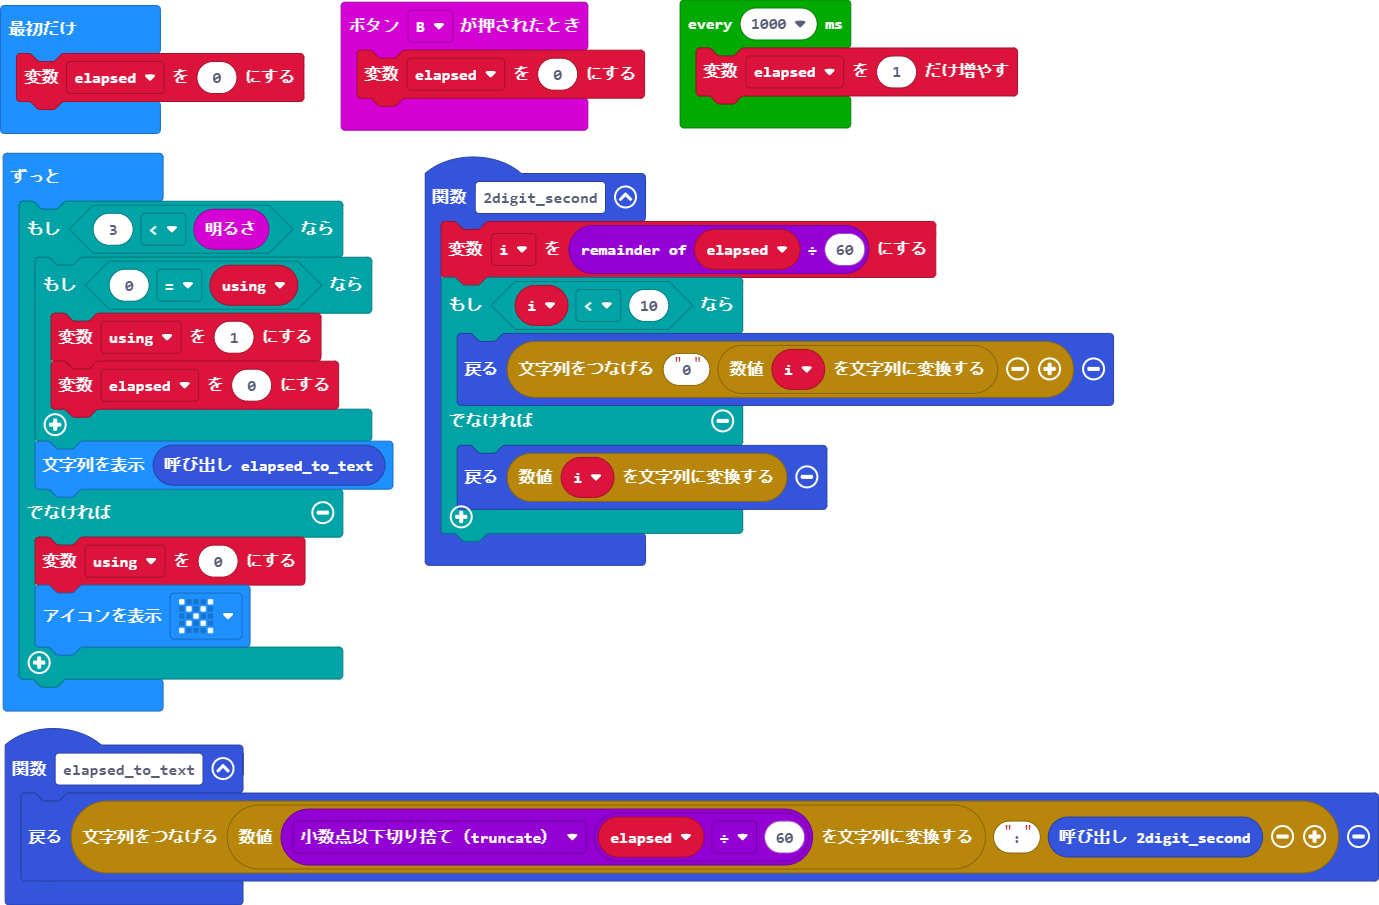
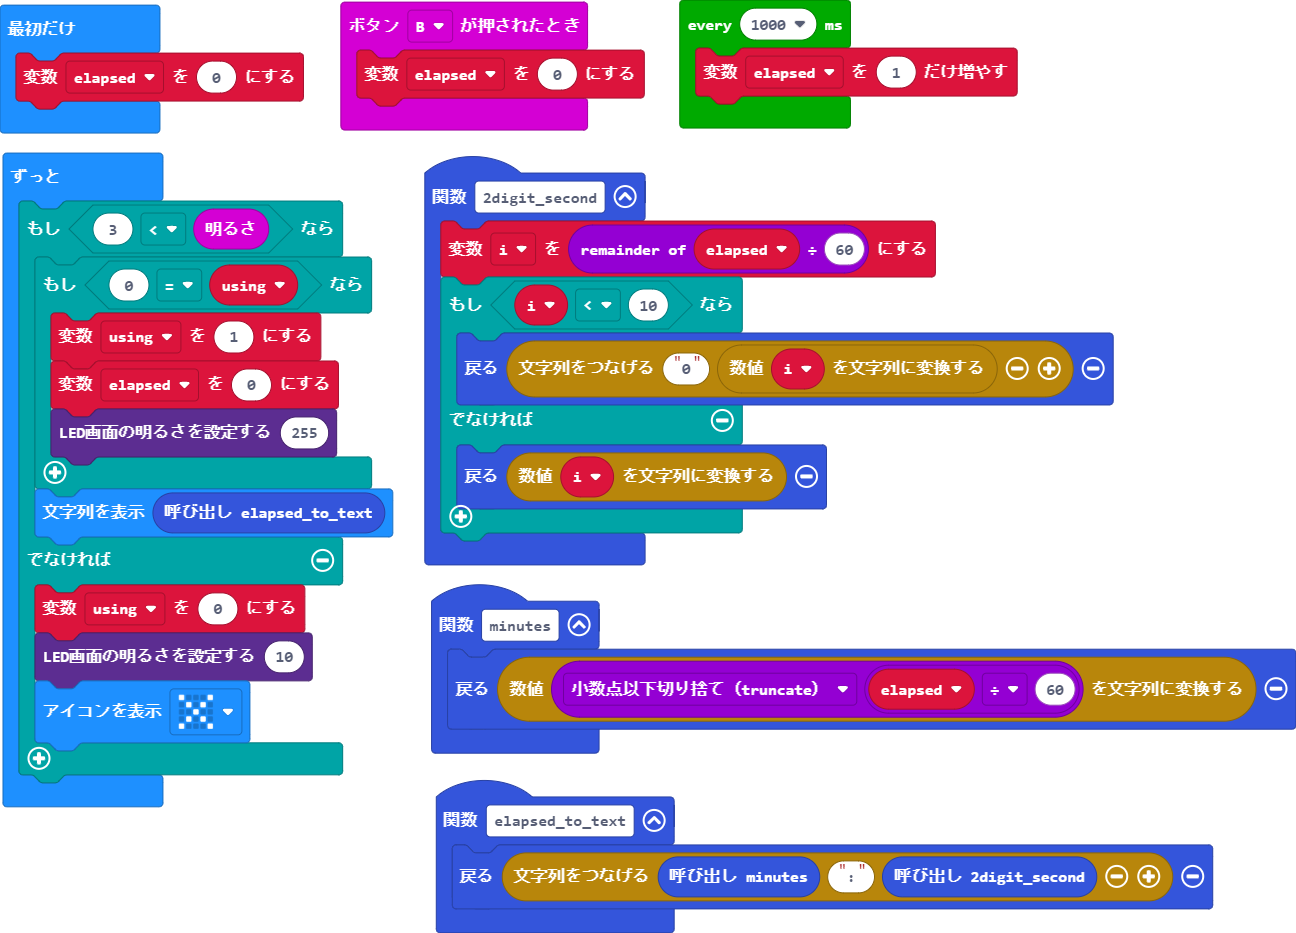
LEDの明るさを調整。分文字列生成を関数化

diff --git a/main.ts b/main.ts
@@ -1,3 +1,6 @@
+function minutes () {
+    return convertToText(Math.trunc(elapsed / 60))
+}
 function _2digit_second () {
     i = elapsed % 60
     if (i < 10) {
@@ -7,7 +10,7 @@ function _2digit_second () {
     }
 }
 function elapsed_to_text () {
-    return "" + convertToText(Math.trunc(elapsed / 60)) + ":" + _2digit_second()
+    return "" + minutes() + ":" + _2digit_second()
 }
 input.onButtonPressed(Button.B, function () {
     elapsed = 0
@@ -24,10 +27,12 @@ basic.forever(function () {
         if (0 == using) {
             using = 1
             elapsed = 0
+            led.setBrightness(255)
         }
         basic.showString("" + (elapsed_to_text()))
     } else {
         using = 0
+        led.setBrightness(10)
         basic.showIcon(IconNames.No)
     }
 })
